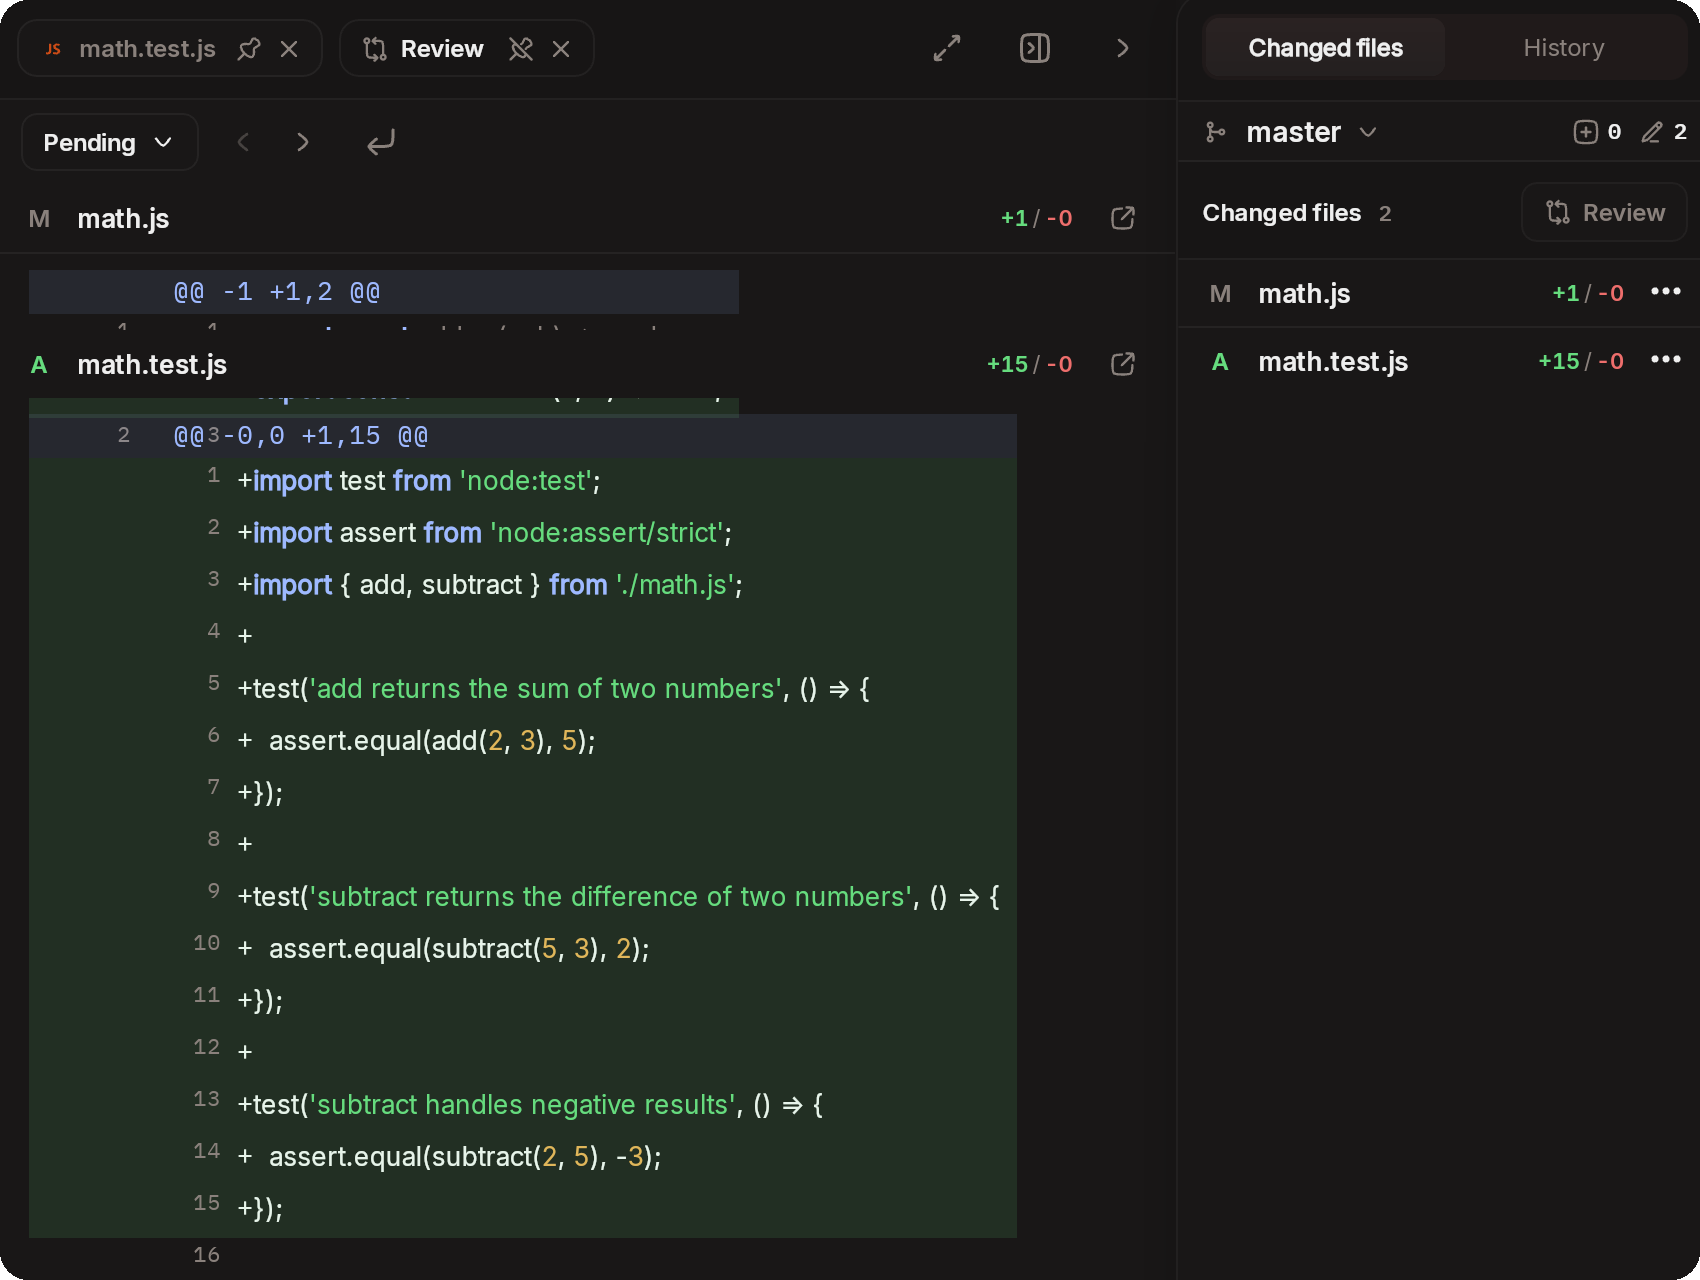
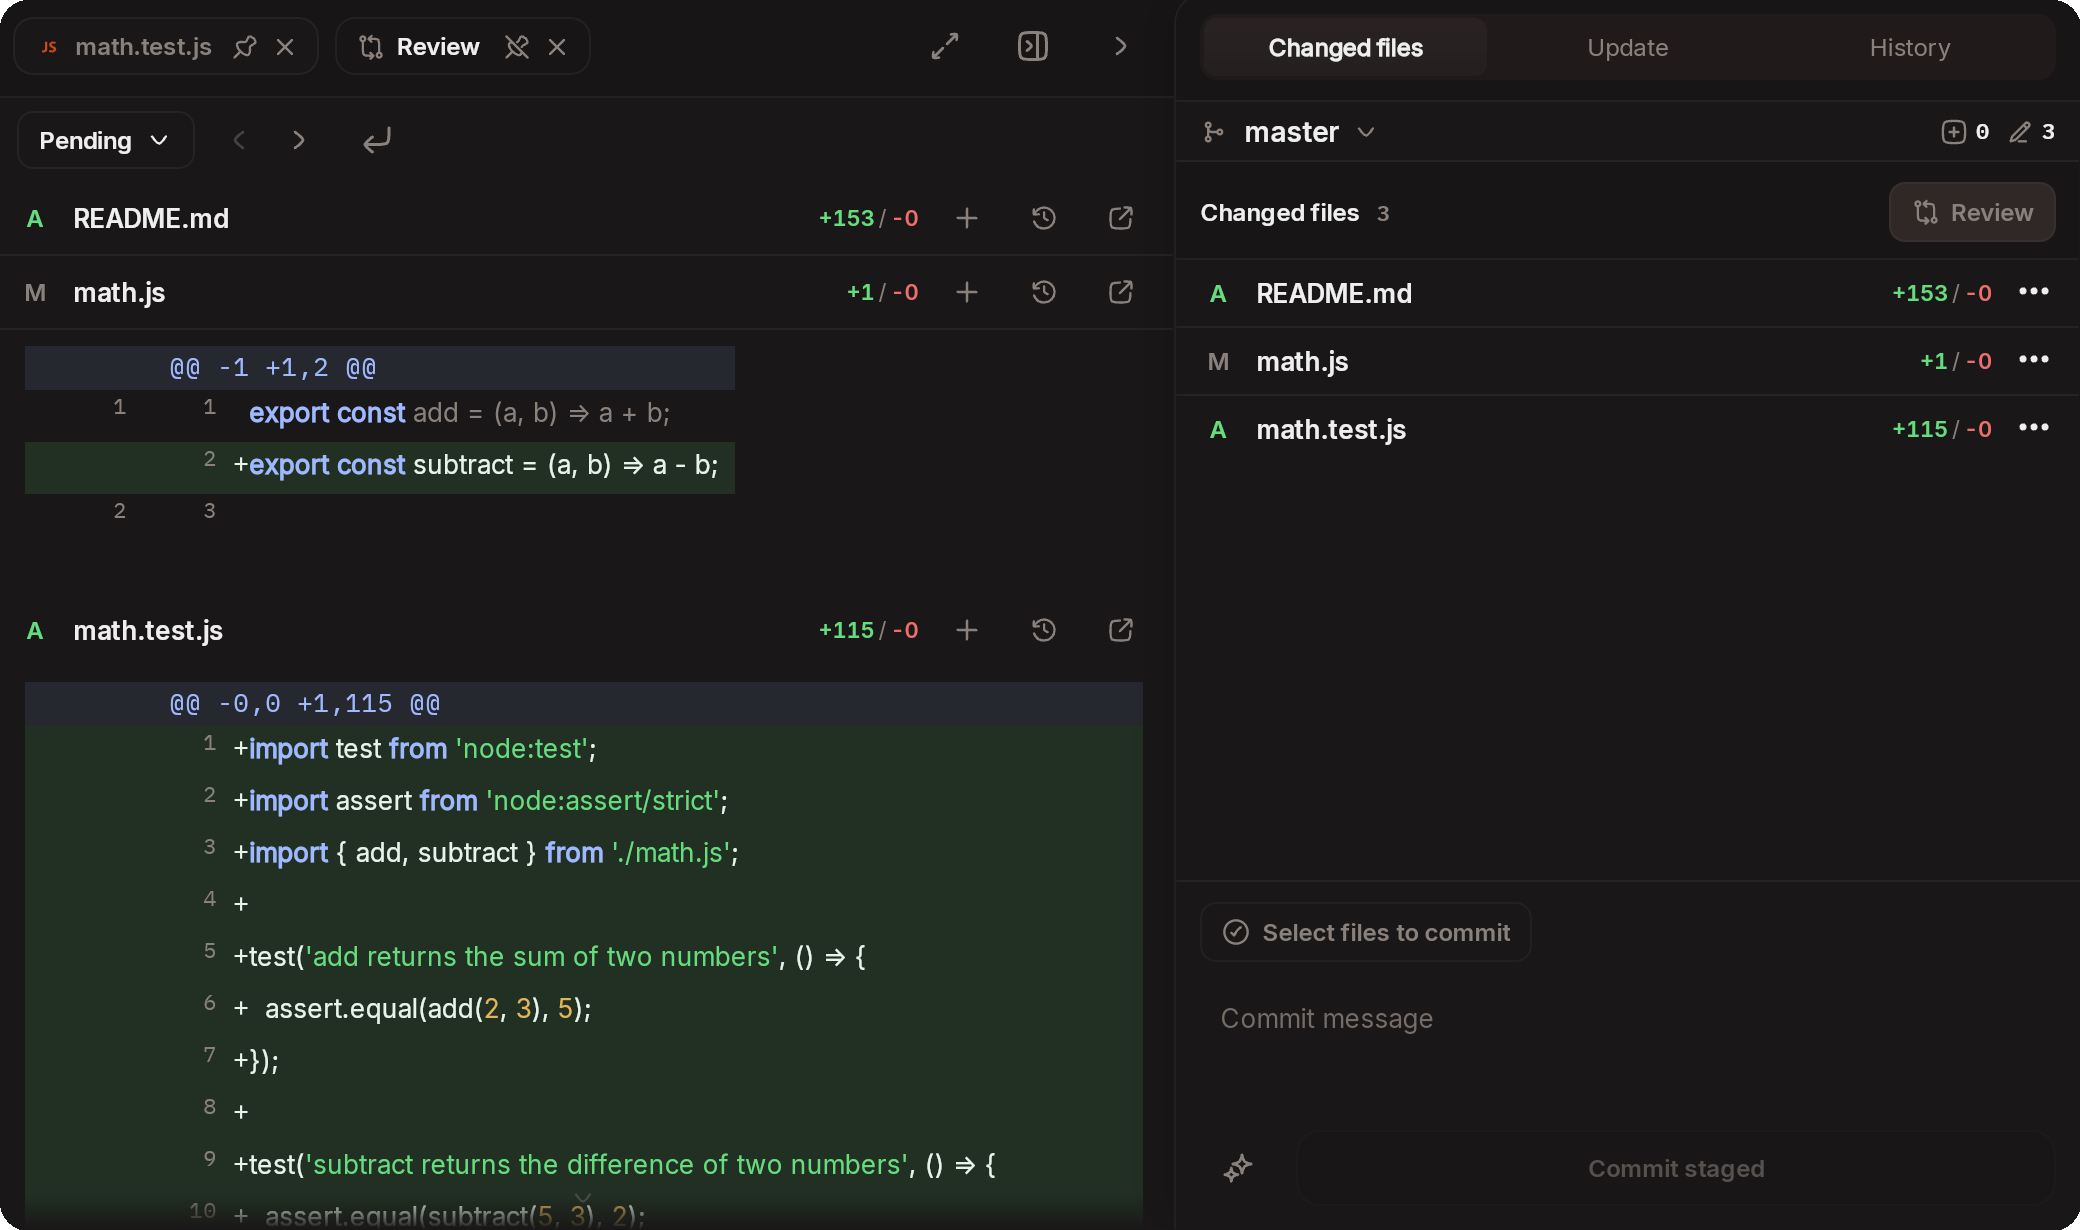
docs(readme): compact git screenshot with collapsed README diff

diff --git a/README.md b/README.md
@@ -197,7 +197,7 @@ Either way, the session shows up everywhere at once: keep typing in the terminal
 
 <p align="center">Stage, commit, push, branch and open pull requests without leaving the app. Start a session in its own Git worktree from any local or remote branch, or in the folder you are already in. <a href="https://docs.happier.dev/code/git">Git</a> · <a href="https://docs.happier.dev/sessions/new-session-shortcuts">New session options</a></p>
 
-<p align="center"><img src=".github/screenshots/git.png" width="640" alt="Git panel with changed files and a diff for review" /></p>
+<p align="center"><img src=".github/screenshots/git.png" width="600" alt="Review diff with stage buttons next to the Git panel with changed files and a commit message field"></p>
 
 <br/>
 
